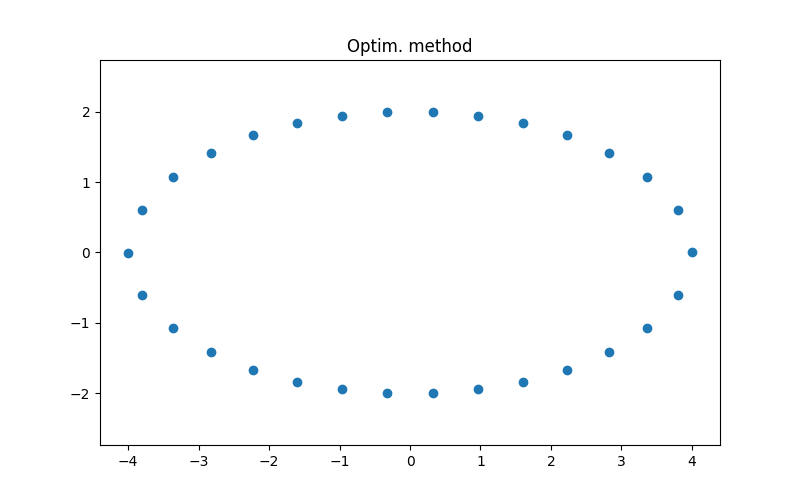
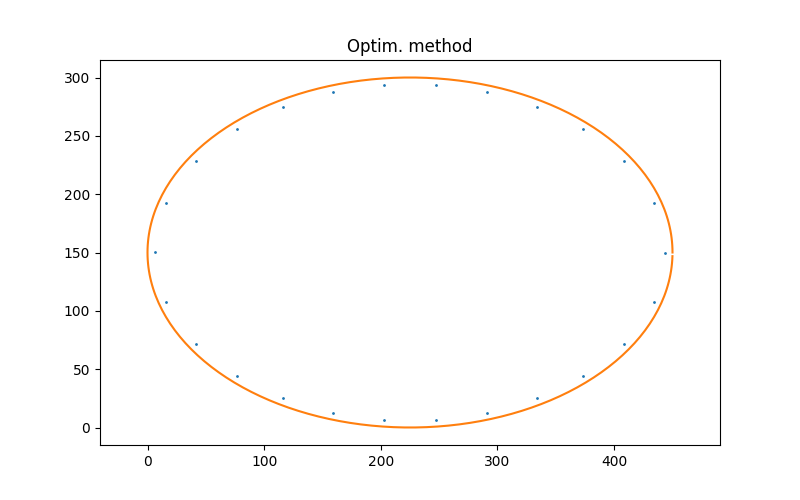
Prepare for PyPi

diff --git a/example.py b/example.py
@@ -1,0 +1,63 @@
+from ellipse import Ellipse
+from subdivide_ellipse import subdivide_ellipse
+import matplotlib.pyplot as plt
+import numpy as np
+
+import sys
+import math
+
+
+def points_to_file(path, X, Y):
+    with open(path, 'w') as f:
+        f.truncate(0)
+
+        for x, y in zip(np.nditer(X), np.nditer(Y)):
+            f.writelines(f'{x:.2f} {y:.2f}\n')
+
+
+if __name__ == '__main__':
+    # Ellipse dimensions
+    a = float(sys.argv[1])
+    b = float(sys.argv[2])
+    n_holes = int(sys.argv[3])
+
+    a_prime = a - 6
+    b_prime = b - 6
+
+    ellipse = Ellipse(a_prime, b_prime)
+    x_coords, y_coords = subdivide_ellipse(ellipse, n_holes)
+
+    x_coords += a
+    y_coords += b
+
+    print_idx = 13
+    print(f'Left most point: ({x_coords[print_idx]}, {y_coords[print_idx]})')
+
+    points_to_file('data.txt', x_coords, y_coords)
+
+    n_points = 300
+    t = 0
+    subdiv = (2 * math.pi) / n_points
+    outer_ellipse = Ellipse(a, b)
+
+    outer_x = []
+    outer_y = []
+    for i in range(n_points):
+        x, y = outer_ellipse.point(t)
+        outer_x.append(x)
+        outer_y.append(y)
+        t += subdiv
+
+    outer_x = np.array(outer_x)
+    outer_y = np.array(outer_y)
+
+    outer_x += a
+    outer_y += b
+
+    plt.figure(figsize=(8, 5))
+    plt.plot(x_coords, y_coords, 'o', markersize=1)
+    plt.plot(outer_x, outer_y, '-')
+    plt.title('Optim. method')
+    plt.axis('equal')
+    plt.savefig('ellipse.png')
+    plt.show()

diff --git a/subdivide_ellipse.py b/subdivide_ellipse.py
@@ -1,0 +1,48 @@
+import math
+from ellipse import Ellipse
+import matplotlib.pyplot as plt
+from scipy.optimize import minimize
+import numpy as np
+
+
+def arc_length_loss_function(theta, ellipse, arc_subdiv, r):
+    dist, _ = ellipse.arc_length(r, theta)
+
+    # MSE estimator
+    return (dist - arc_subdiv) ** 2
+
+
+def subdivide_ellipse(ellipse, N):
+    a = ellipse.a
+    b = ellipse.b
+
+    total_rad = 2 * math.pi
+    radian_per_hole = total_rad / N
+
+    ellipse = Ellipse(a, b)
+    arc_length, _ = ellipse.arc_length()
+    arc_subdiv = arc_length / N
+
+    print(f'Perimeter: {arc_length} Subdiv length: {arc_subdiv}')
+
+    # Knowing the size of each arc length, we must now segment the ellipse.
+    t = 0
+    x, y = ellipse.point(t)
+    x_coords = [x]
+    y_coords = [y]
+    ts = []
+    for i in range(N - 1):
+        # Estimate of next t-value
+        t_prime = t + radian_per_hole
+
+        # Find a segment (t, t_prime) whose arc length is equal to arc_subdiv by optimization.
+        optim = minimize(arc_length_loss_function, t_prime,
+                         args=(ellipse, arc_subdiv, t))
+        t = optim.x[0]
+        ts.append(t)
+
+        x, y = ellipse.point(t)
+        x_coords.append(x)
+        y_coords.append(y)
+
+    return np.array(x_coords), np.array(y_coords)

diff --git a/ellipse.py b/ellipse.py
@@ -1,6 +1,7 @@
 import math
 from scipy.integrate import quad
 
+
 class Ellipse:
 
     def __init__(self, a, b):
@@ -14,11 +15,11 @@ class Ellipse:
     def arc_length_integral_function(self, theta):
         a_squared = self.a * self.a
         sin_term = a_squared * (math.sin(theta) ** 2)
-        
+
         b_squared = self.b * self.b
         cos_term = b_squared * (math.cos(theta) ** 2)
 
         return math.sqrt(sin_term + cos_term)
-    
+
     def arc_length(self, theta_start=0, theta_end=2*math.pi):
-       return quad(self.arc_length_integral_function, theta_start, theta_end)
+        return quad(self.arc_length_integral_function, theta_start, theta_end)
